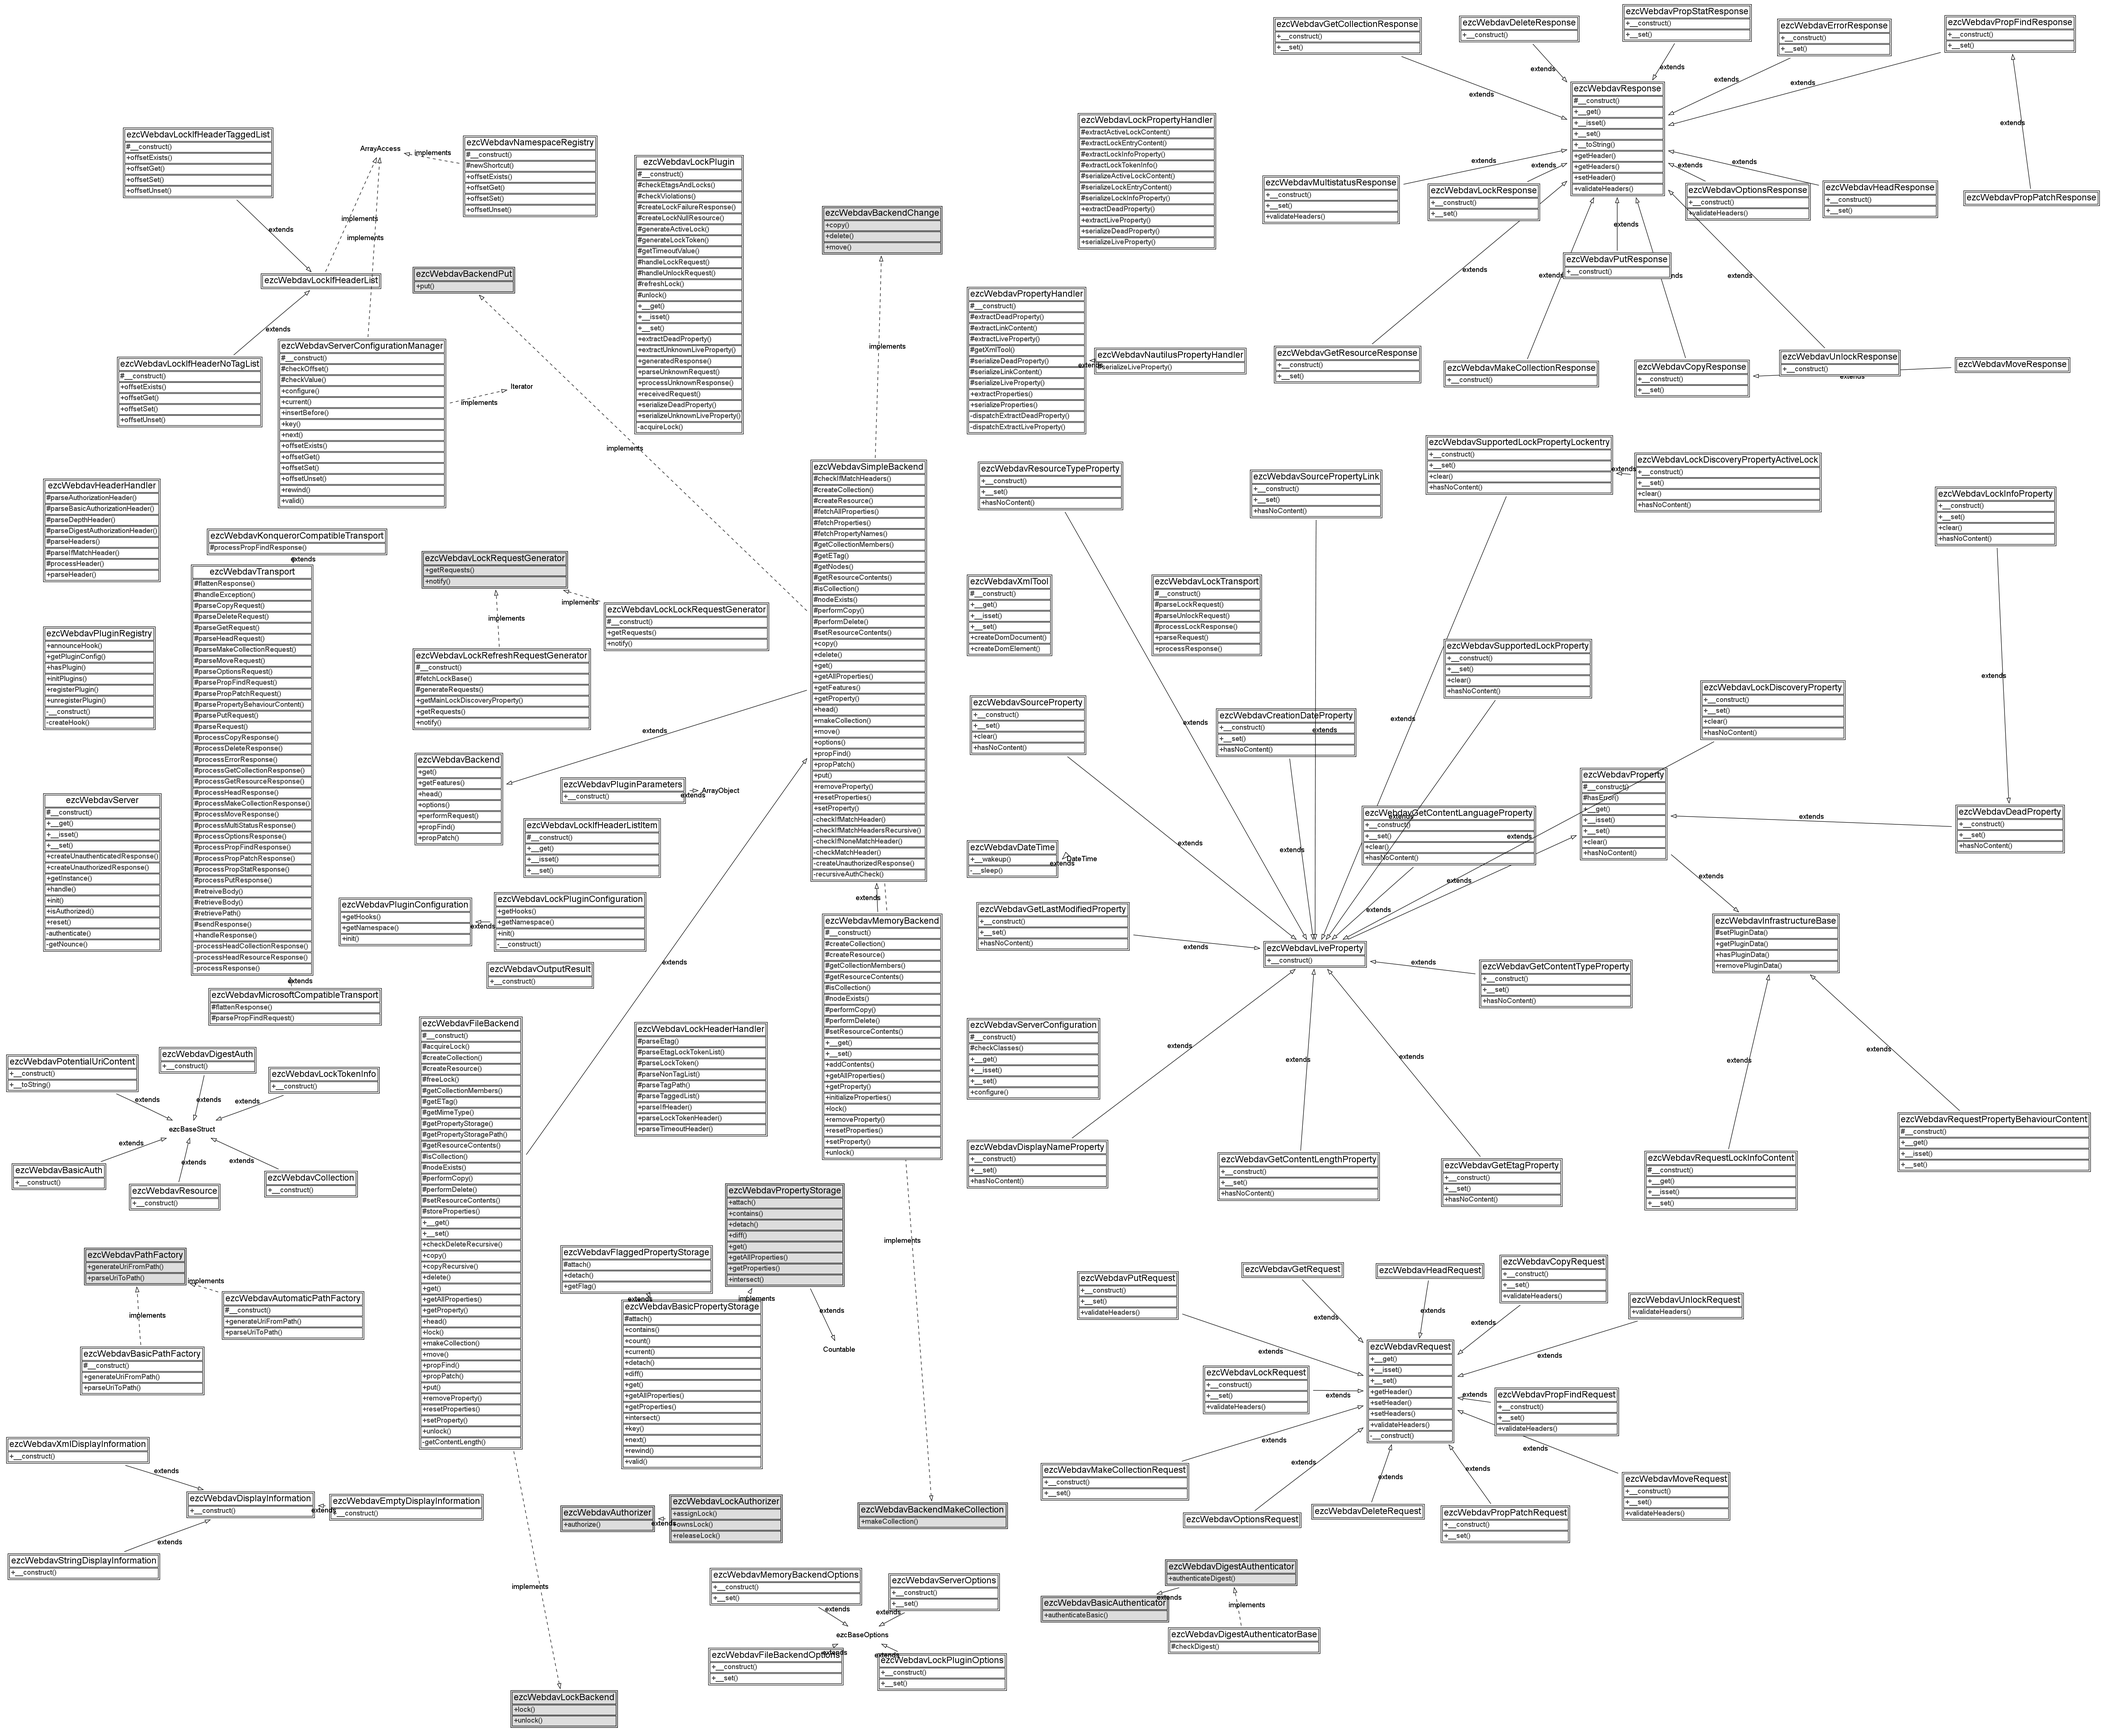
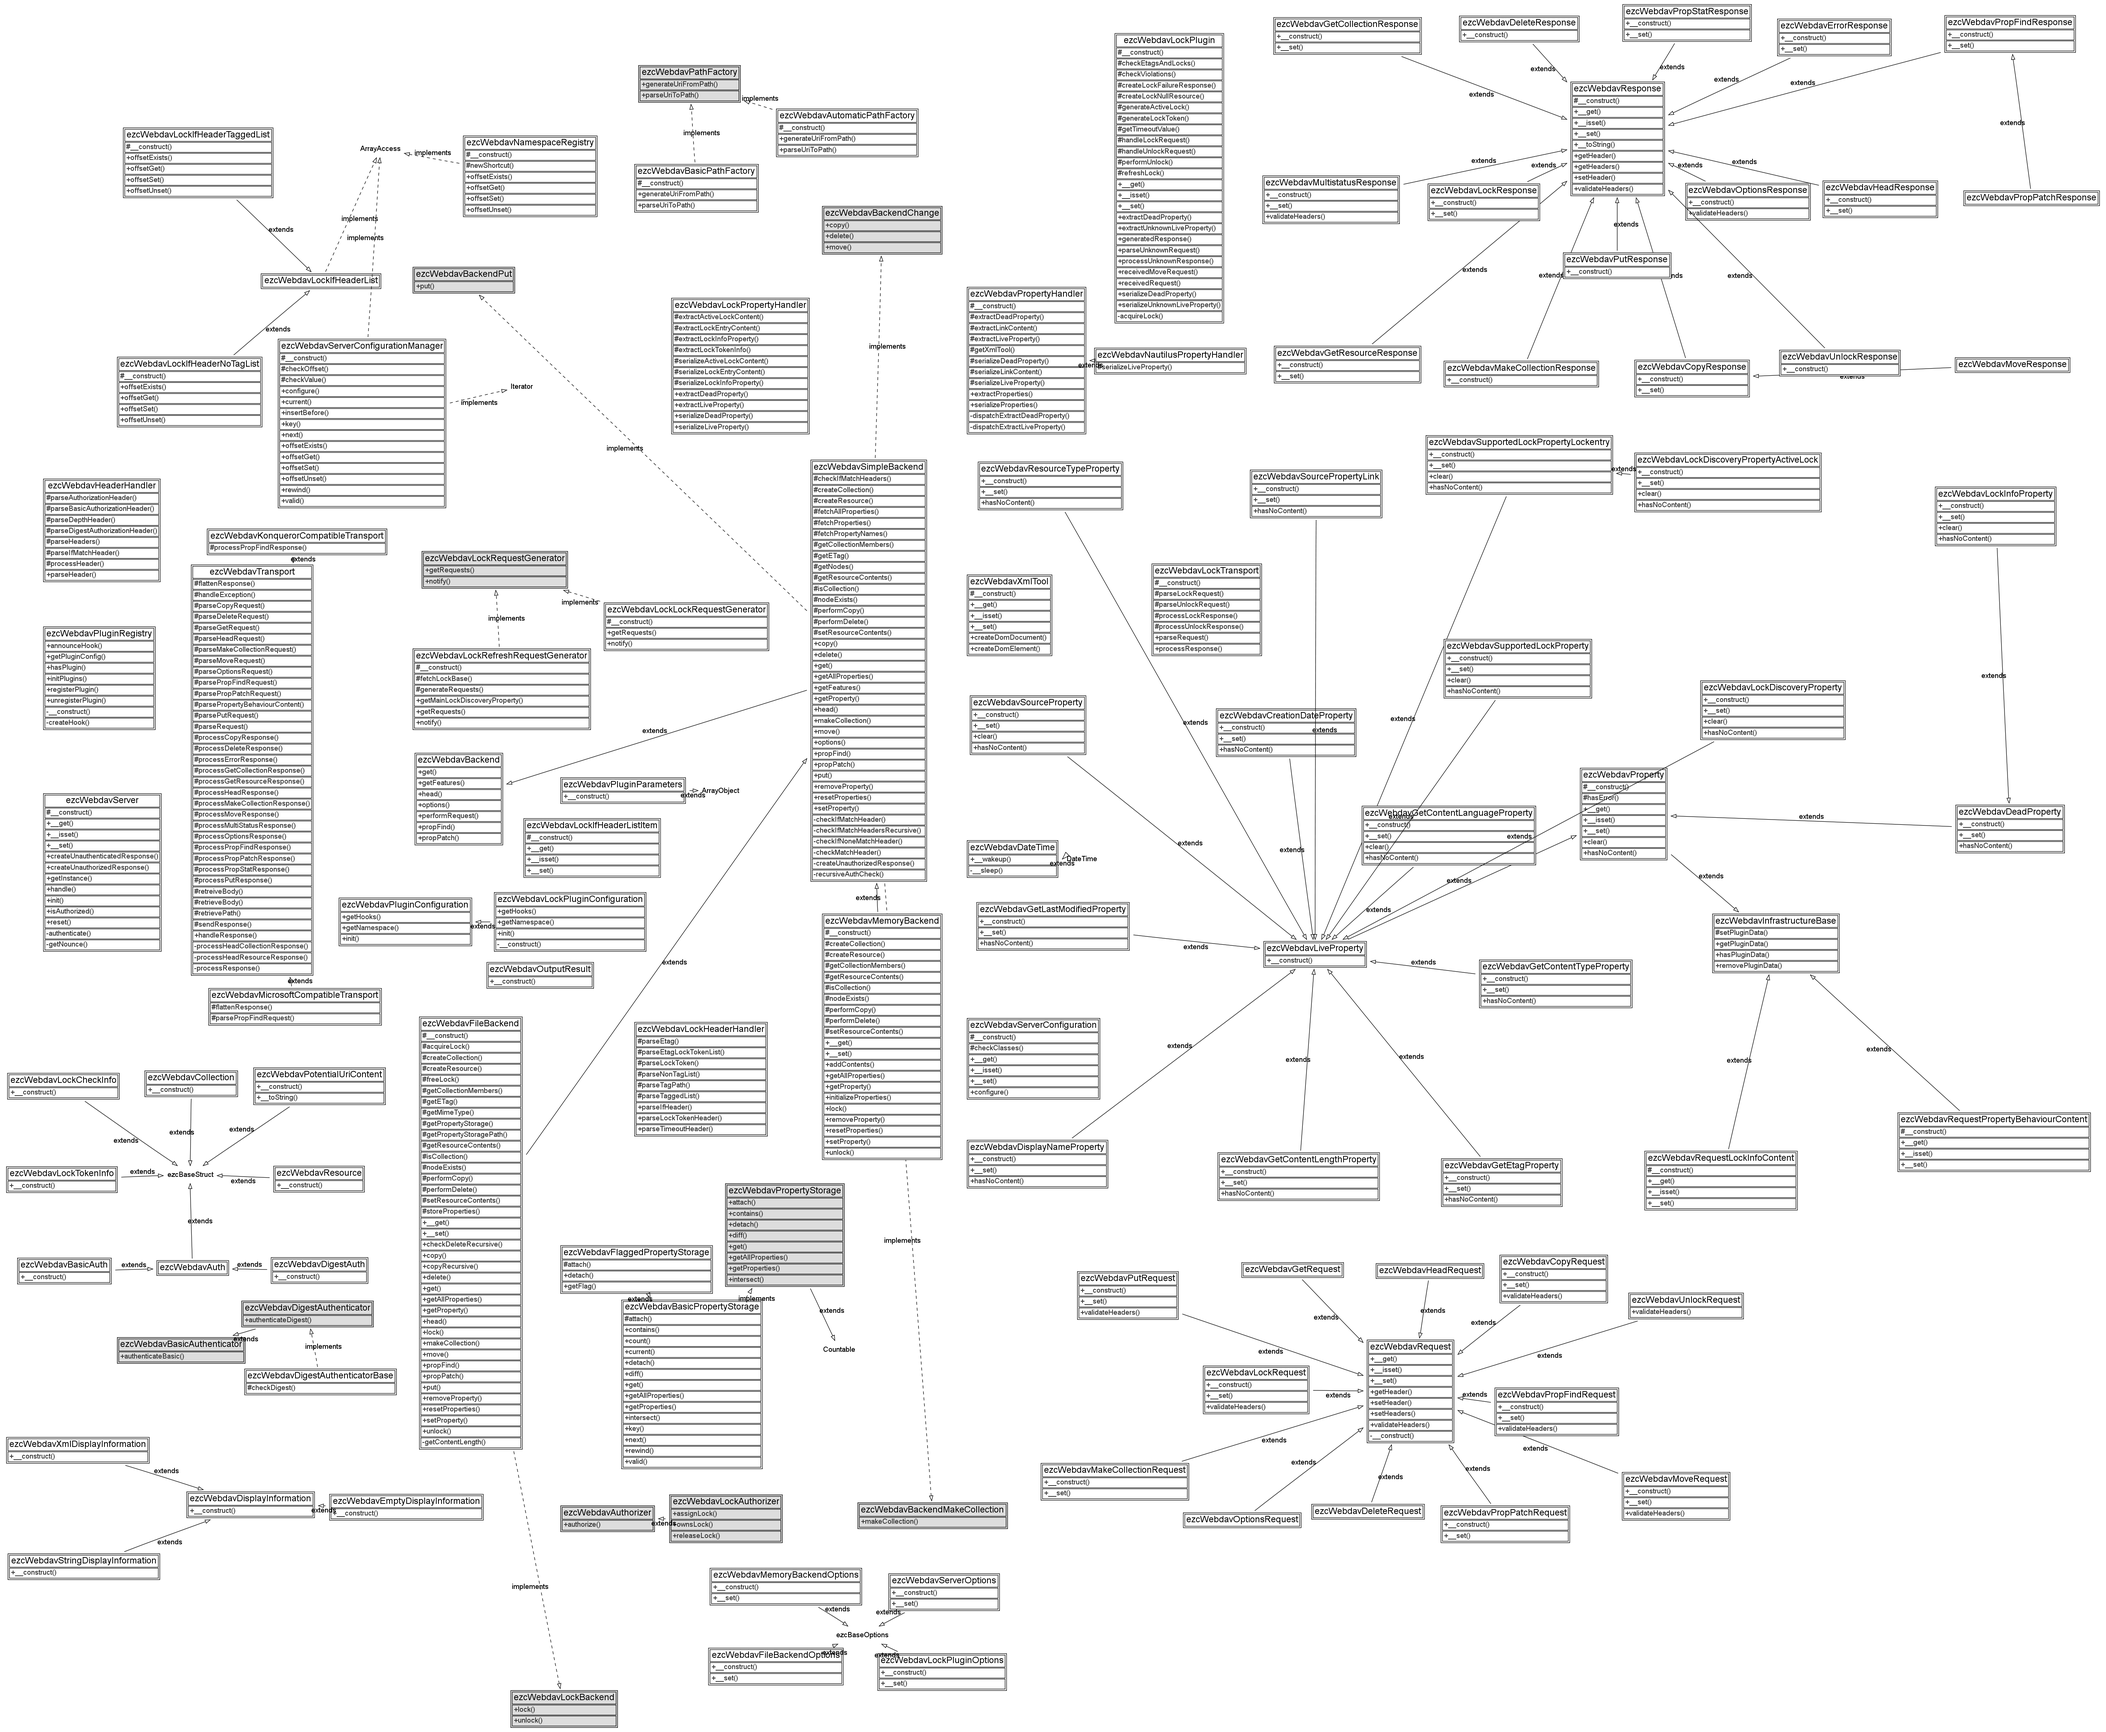
- Made ezcWebdav*Auth structs extend ezcWebdavAuth. - Introduced ezcWebdavLockCheckInfo to abstract from request data in the lock   checks.
git-svn-id: https://svn.apache.org/repos/asf/incubator/zetacomponents/trunk@976514 13f79535-47bb-0310-9956-ffa450edef68

diff --git a/Webdav/src/plugins/lock/main.php b/Webdav/src/plugins/lock/main.php
@@ -259,7 +259,7 @@ class ezcWebdavLockPlugin
 
     //
     //
-    // Request handling
+    // LOCK request handling
     //
     //
 
@@ -333,8 +333,8 @@ class ezcWebdavLockPlugin
         // Check permission
 
         if ( !$srv->isAuthorized(
-                $request,
                 $request->requestUri,
+                $request->getHeader( 'Authorization' ),
                 ezcWebdavAuthorizer::ACCESS_WRITE
              ) )
         {
@@ -599,7 +599,18 @@ class ezcWebdavLockPlugin
         );
 
         // Check violations and collect PROPPATCH requests
-        $res = $this->checkViolations( $request, $requestGenerator );
+        $res = $this->checkViolations(
+            array(
+                new ezcWebdavLockCheckInfo(
+                    $request->requestUri,
+                    $request->getHeader( 'Depth' ),
+                    $request->getHeader( 'If' ),
+                    $request->getHeader( 'Authorization' ),
+                    ezcWebdavAuthorizer::ACCESS_WRITE,
+                    $requestGenerator
+                ),
+            )
+        );
 
         if ( $res !== null )
         {
@@ -666,7 +677,18 @@ class ezcWebdavLockPlugin
             $request
         );
 
-        $res = $this->checkViolations( $request, $reqGen );
+        $res = $this->checkViolations(
+            array(
+                new ezcWebdavLockCheckInfo(
+                    $request->requestUri,
+                    $request->getHeader( 'Depth' ),
+                    $request->getHeader( 'If' ),
+                    $request->getHeader( 'Authorization' ),
+                    ezcWebdavAuthorizer::ACCESS_WRITE,
+                    $reqGen
+                ),
+            )
+        );
         
         if ( $res !== null )
         {
@@ -707,15 +729,17 @@ class ezcWebdavLockPlugin
 
         // Check parent directory for locks and other violations
 
-        $headReq = new ezcWebdavHeadRequest(
-            dirname( $request->requestUri )
+        $checkRes = $this->checkViolations(
+            array(
+                new ezcWebdavLockCheckInfo(
+                    dirname( $request->requestUri ),
+                    ezcWebdavRequest::DEPTH_ZERO,
+                    $request->getHeader( 'If' ),
+                    $request->getHeader( 'Authorization' ),
+                    ezcWebdavAuthorizer::ACCESS_WRITE
+                ),
+            )
         );
-        // Usually not present in HEAD requests, but needed for violation checks
-        $headReq->setHeader( 'Depth', ezcWebdavRequest::DEPTH_ZERO );
-        $headReq->setHeader( 'If', $request->getHeader( 'If' ) );
-        $headReq->validateHeaders();
-
-        $checkRes = $this->checkViolations( $headReq, $reqGen );
 
         if ( $checkRes !== null )
         {
@@ -810,79 +834,83 @@ class ezcWebdavLockPlugin
      * returns null, all checks passed and you can savely execute the desired
      * requests.
      * 
-     * @param ezcWebdavRequest $request 
+     * @param array(ezcWebdavLockCheckInfo) $checkInfos
      * @param ezcWebdavLockRequestGenerator $generator 
      * @return ezcWebdavMultistatusResponse|ezcWebdavErrorResponse|null
      */
-    protected function checkViolations( ezcWebdavRequest $request, ezcWebdavLockRequestGenerator $generator = null )
+    protected function checkViolations( array $checkInfos )
     {
         $srv = ezcWebdavServer::getInstance();
 
-        $propFind       = new ezcWebdavPropFindRequest( $request->requestUri );
-        $propFind->prop = new ezcWebdavBasicPropertyStorage();
-
-        $propFind->prop->attach( new ezcWebdavLockDiscoveryProperty() );
-        $propFind->prop->attach( new ezcWebdavGetEtagProperty() );
-        $propFind->prop->attach( new ezcWebdavLockInfoProperty() );
-
-        $propFind->setHeader(
-            'Depth',
-            ( $depth = $request->getHeader( 'Depth' ) ) !== null ? $depth : ezcWebdavRequest::DEPTH_ONE
-        );
-
-        $propFind->validateHeaders();
-
-        $propFindMultistatusRes = $srv->backend->performRequest( $propFind );
-
-        if ( !( $propFindMultistatusRes instanceof ezcWebdavMultistatusResponse ) )
+        // Might contain multiple check infos, if multiple paths are affected
+        foreach ( $checkInfos as $checkInfo )
         {
-            // Bubble up error from backend
-            return $propFindMultistatusRes;
-        }
 
-        $violations       = array();
-        $mainLockProperty = null;
+            $propFind       = new ezcWebdavPropFindRequest( $checkInfo->path );
+            $propFind->prop = new ezcWebdavBasicPropertyStorage();
 
-        foreach ( $propFindMultistatusRes->responses as $propFindRes )
-        {
-            // Check authorization of the affected node
-            if ( !$srv->isAuthorized(
-                    $request,
-                    $propFindRes->node->path,
-                    // @TODO: This should be configurable by a method parameter
-                    ezcWebdavAuthorizer::ACCESS_WRITE
-                 ) 
-            )
+            $propFind->prop->attach( new ezcWebdavLockDiscoveryProperty() );
+            $propFind->prop->attach( new ezcWebdavGetEtagProperty() );
+            $propFind->prop->attach( new ezcWebdavLockInfoProperty() );
+
+            $propFind->setHeader(
+                'Depth',
+                ( $checkInfo->depth !== null ? $checkInfo->depth : ezcWebdavRequest::DEPTH_ONE )
+            );
+
+            $propFind->validateHeaders();
+
+            $propFindMultistatusRes = $srv->backend->performRequest( $propFind );
+
+            if ( !( $propFindMultistatusRes instanceof ezcWebdavMultistatusResponse ) )
             {
-                $violations[] = $srv->createUnauthorizedResponse(
-                    $propFindRes->node->path,
-                    'Authorization failed.'
-                );
-                // No need for further checks on this path, if authorization failed
-                continue;
+                // Bubble up error from backend
+                return $propFindMultistatusRes;
             }
 
-            if ( ( $res = $this->checkEtagsAndLocks( $propFindRes, $request ) ) !== null )
-            {
-                $violations[] = $res;
-            }
+            $violations       = array();
+            $mainLockProperty = null;
 
-            // Notify request generator on affected ressource
-            if ( $generator !== null )
+            foreach ( $propFindMultistatusRes->responses as $propFindRes )
             {
-                $generator->notify( $propFindRes );
-            }
-
-            // Store main lock property for use in MultiStatus
-            if ( $propFindRes->node->path === $request->requestUri )
-            {
-                foreach ( $propFindRes->responses as $propStatRes )
+                // Check authorization of the affected node
+                if ( !$srv->isAuthorized(
+                        $propFindRes->node->path,
+                        $checkInfo->authHeader,
+                        $checkInfo->access
+                     ) 
+                )
                 {
-                    if ( $propStatRes->storage->contains( 'lockdiscovery' ) )
+                    $violations[] = $srv->createUnauthorizedResponse(
+                        $propFindRes->node->path,
+                        'Authorization failed.'
+                    );
+                    // No need for further checks on this path, if authorization failed
+                    continue;
+                }
+
+                if ( ( $res = $this->checkEtagsAndLocks( $propFindRes, $checkInfo ) ) !== null )
+                {
+                    $violations[] = $res;
+                }
+
+                // Notify request generator on affected ressource
+                if ( $checkInfo->requestGenerator !== null )
+                {
+                    $checkInfo->requestGenerator->notify( $propFindRes );
+                }
+
+                // Store main lock property for use in MultiStatus
+                if ( $propFindRes->node->path === $checkInfo->path )
+                {
+                    foreach ( $propFindRes->responses as $propStatRes )
                     {
-                        $mainLockNode     = $propFindRes->node;
-                        $mainLockProperty = $propStatRes->storage->get( 'lockdiscovery' );
-                        break;
+                        if ( $propStatRes->storage->contains( 'lockdiscovery' ) )
+                        {
+                            $mainLockNode     = $propFindRes->node;
+                            $mainLockProperty = $propStatRes->storage->get( 'lockdiscovery' );
+                            break;
+                        }
                     }
                 }
             }
@@ -930,6 +958,18 @@ class ezcWebdavLockPlugin
                 $propStat
             )
         );
+    }
+
+    //
+    //
+    // LOCK request handling
+    //
+    //
+
+    public function receivedMoveRequest( ezcWebdavMoveRequest $request )
+    {
+        $request->setHeader( 'If', $this->headerHandler->parseIfHeader() );
+
     }
 
     //
@@ -1027,10 +1067,10 @@ class ezcWebdavLockPlugin
      * the ETag assigned to a resource affected by the $req.
      * 
      * @param ezcWebdavPropertyStorage $propertyStorage 
-     * @param ezcWebdavRequest $request
+     * @param ezcWebdavLockCheckInfo $checkInfo
      * @return void
      */
-    protected function checkEtagsAndLocks( ezcWebdavPropFindResponse $propFindRes, ezcWebdavRequest $request )
+    protected function checkEtagsAndLocks( ezcWebdavPropFindResponse $propFindRes, ezcWebdavLockCheckInfo $checkInfo )
     {
         $path = $propFindRes->node->path;
 
@@ -1049,8 +1089,8 @@ class ezcWebdavLockPlugin
         }
 
         // Extract If header items relevant for the given $request
-        if ( ( $ifHeader = $request->getHeader( 'If' ) ) === null ||
-             ( $ifHeaderItems = $ifHeader[$path] ) === array()
+        if ( $checkInfo->ifHeader === null ||
+             ( $ifHeaderItems = $checkInfo->ifHeader[$path] ) === array()
         )
         {
             // No If header items for this path, just check if item is not

diff --git a/Webdav/src/webdav_autoload.php b/Webdav/src/webdav_autoload.php
@@ -38,6 +38,7 @@ return array(
     'ezcWebdavLiveProperty'                           => 'Webdav/interfaces/property_live.php',
     'ezcWebdavPropertyStorage'                        => 'Webdav/interfaces/property_storage.php',
     'ezcWebdavResponse'                               => 'Webdav/interfaces/response.php',
+    'ezcWebdavAuth'                                   => 'Webdav/structs/auth.php',
     'ezcWebdavAuthorizer'                             => 'Webdav/interfaces/authorizer.php',
     'ezcWebdavBasicPropertyStorage'                   => 'Webdav/property_storages/basic.php',
     'ezcWebdavCopyResponse'                           => 'Webdav/responses/copy.php',
@@ -85,6 +86,7 @@ return array(
     'ezcWebdavHeaderHandler'                          => 'Webdav/transports/header_handler.php',
     'ezcWebdavKonquerorCompatibleTransport'           => 'Webdav/transports/konqueror.php',
     'ezcWebdavLockAuthorizer'                         => 'Webdav/plugins/lock/interfaces/lock_authorizer.php',
+    'ezcWebdavLockCheckInfo'                          => 'Webdav/plugins/lock/structs/lock_check_info.php',
     'ezcWebdavLockDiscoveryProperty'                  => 'Webdav/properties/lockdiscovery.php',
     'ezcWebdavLockDiscoveryPropertyActiveLock'        => 'Webdav/properties/lockdiscovery_activelock.php',
     'ezcWebdavLockHeaderHandler'                      => 'Webdav/plugins/lock/header_handler.php',

diff --git a/Webdav/src/structs/digest_auth.php b/Webdav/src/structs/digest_auth.php
@@ -19,7 +19,7 @@
  * @author  
  * @license http://ez.no/licenses/new_bsd New BSD License
  */
-class ezcWebdavDigestAuth extends ezcBaseStruct
+class ezcWebdavDigestAuth extends ezcWebdavAuth
 {
     /**
      * The method of the current request. 

diff --git a/Webdav/src/structs/basic_auth.php b/Webdav/src/structs/basic_auth.php
@@ -19,7 +19,7 @@
  * @author  
  * @license http://ez.no/licenses/new_bsd New BSD License
  */
-class ezcWebdavBasicAuth extends ezcBaseStruct
+class ezcWebdavBasicAuth extends ezcWebdavAuth
 {
     /**
      * Plain text user name.
